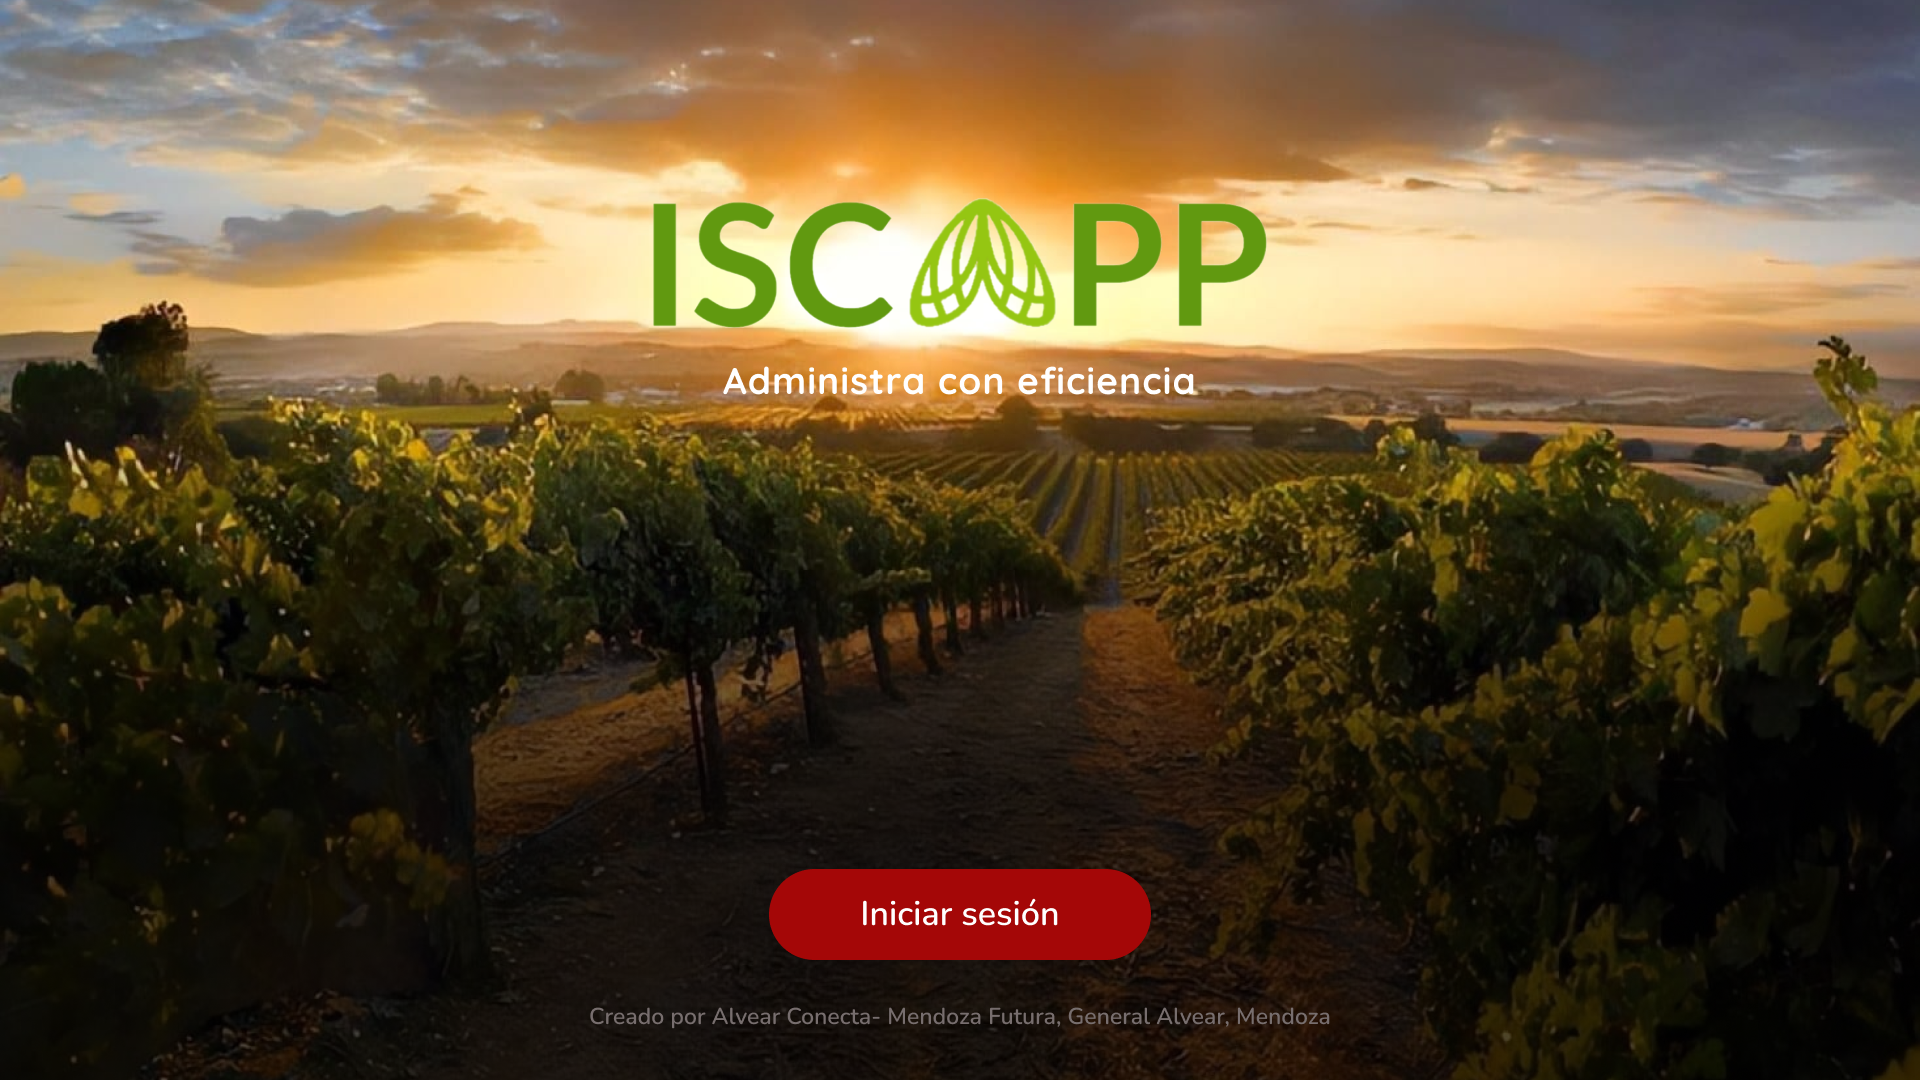
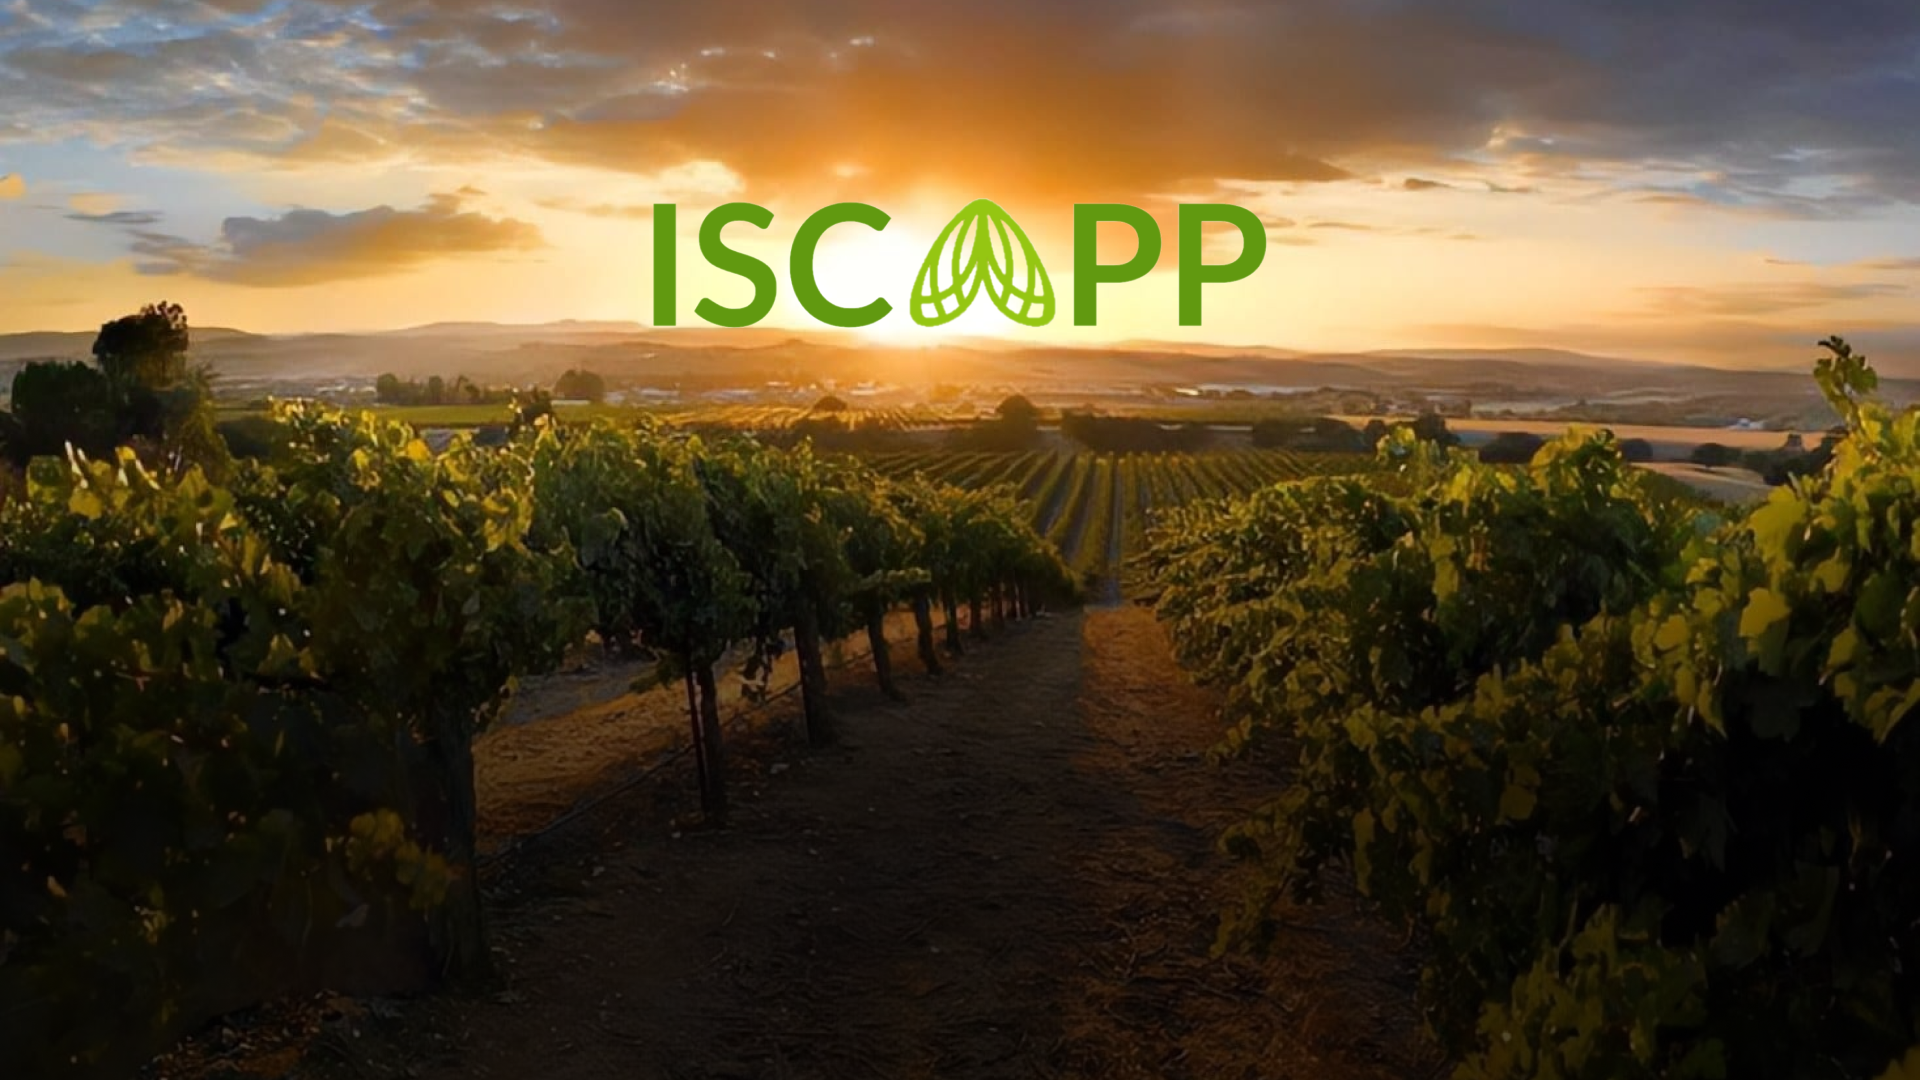
login completo

Changed region(s): [[0.375, 0.7944, 0.625, 0.8861], [0.3125, 0.9167, 0.6875, 0.9472], [0.375, 0.3361, 0.625, 0.3667]]

diff --git a/AppIscamen/App/static/main.css b/AppIscamen/App/static/main.css
@@ -2,6 +2,8 @@
     display: flex;
     justify-content: center;
     align-items: center;
+    
+
 }
 
 #fondo{
@@ -12,16 +14,122 @@
     background-size: cover;
     background-position: center;
 }
+#titulo{
+    color: rgba(255, 255, 255, 1);
+	width:473px;
+	height:0px;
+	position:absolute;
+	left: 430px;
+	top:380px;
+	font-family:Quicksand;
+	text-align:left;
+	font-size:20px;
+	letter-spacing:3;
+	line-height:px;
+}
+#titulologin{
+    color: rgb(29, 12, 12);
+	width:473px;
+	height:0px;
+	position:absolute;
+	left: 440px;
+	top:380px;
+	font-family:Nunito;
+	text-align:center;
+	font-size:20px;
+	letter-spacing:3;
+	line-height:px;
+    z-index: 1;
+}
+
+#socalo{
+    color: rgba(255, 255, 255, 1);
+	width:742px;
+	height:31px;
+	position:absolute;
+	left:460px;
+	top:900px;
+	font-family:Nunito;
+	text-align:left;
+	font: size 37px;
+	letter-spacing:0;
+
+}
+#socalologin a {
+    color: rgba(255, 255, 255, 1);
+    text-decoration: none;
+    /* Otros estilos para el enlace específico */
+}
+#socalologin{
+    color: rgba(255, 255, 255, 1);
+	width:742px;
+	height:31px;
+	position:absolute;
+	left:300px;
+	top:850px;
+	font-family:Nunito;
+	text-align:center;
+	font: size 37px;
+	letter-spacing:0;
+    text-decoration: none;
+
+}
+
+.form {
+    max-width: 1000px;
+    margin-top: -60px;
+    padding: 20px;
+    background-color: white;  /* Fondo blanco del contenedor */
+    border: 1px solid #ddd;
+    border-radius: 37px;  /* Esquinas redondeadas */
+    box-shadow: 0 0 10px rgba(0, 0, 0, 0.1);
+    height: 400px;
+    display: flex;
+    flex-direction: column;
+    justify-content: center;
+    align-items: center;
+    position: absolute;
+    top: 100%;
+    left: 50%;
+    transform: translate(-50%, -50%);
+}
+
+input[type="text"],
+input[type="password"] {
+    width: 93%;
+    padding: 10px;
+    margin-bottom: 10px;
+    font-family:Nunito;
+    font-size: 16px;
+    border: 1px solid #ddd;
+    border-radius: 5px;  /* Esquinas redondeadas en los campos de entrada */
+}
 
 .button {
     color: rgba(255, 255, 255, 1);
     background-color: red;
-    font-family: 'Segoe UI';
+    font-family: Nunito;
     font-weight: SemiBold;
     font-size: 1.5vw;
     padding: 12px 30px;
     border: none;
-    border-radius: 30px;
+    border-radius: 40px;
     cursor: pointer;
-    position: absolute;top: 100%;
+    position: absolute;top: 120%;
+    text-decoration: none;
 }
+.buttonform {
+    color: rgba(255, 255, 255, 1);
+    background-color: red;
+    font-family: Nunito;
+    font-weight: SemiBold;
+    font-size: 1.5vw;
+    padding: 12px 30px;
+    border: none;
+    border-radius: 40px;
+    cursor: pointer;
+    position: absolute;top: 80%;
+    left:95px;
+
+}
+

diff --git a/AppIscamen/App/plantillas/login.html b/AppIscamen/App/plantillas/login.html
@@ -5,7 +5,7 @@
     <meta charset="UTF-8">
     <meta http-equiv="X-UA-Compatible" content="IE=edge">
     <meta name="viewport" content="width=device-width, initial-scale=1.0">
-    <title>Inicio</title>
+    <title>Inicio de sesión</title>
     <link rel="stylesheet" href="{% static 'main.css' %}">
     <link href="https://fonts.googleapis.com/css?family=Nunito&display=swap" rel="stylesheet">
     <link href="https://fonts.googleapis.com/css?family=Quicksand&display=swap" rel="stylesheet">
@@ -13,19 +13,21 @@
 <body>
     <div class="flex-center">
         <div id="fondo">
-            <div id="titulo" >
-                <h1>Administra con eficiencia</h1> 
-            </div>
 
-            <div id="button" class="flex-center">
-                <a href="{% url 'login' %}" class="button">Iniciar sesión</a>
-            </div>
+        <h1 id="titulologin">¡Bienvenido a ISCAPP!</h1>
+        
+        <div class="form" >
+            <form method="post" action="{% url 'login' %}">
+            {% csrf_token %}
+            {{ form.as_p }}
+            <button class="buttonform" type="submit">Iniciar sesión</button>
+            </form>
 
-            <div id="socalo" >
-                <h5>Creado por Alvear Conecta- Mendoza Futura, General Alvear, Mendoza</h5>
-            </div>
+        </div>
+        <div>
+            <h5 id="socalologin"><a href="URL_DE_RECUPERACION">¿Olvidaste tu contraseña?</a></h5>
+        </div>
         </div>
         
     </div>
 </body>
-</html>

diff --git a/AppIscamen/AppIscamen/settings.py b/AppIscamen/AppIscamen/settings.py
@@ -56,7 +56,7 @@ ROOT_URLCONF = 'AppIscamen.urls'
 TEMPLATES = [
     {
         'BACKEND': 'django.template.backends.django.DjangoTemplates',
-        'DIRS': ['C:/Users/User/Documents/Gustavo/Programacion/appIscamen/appIscamen/AppIscamen/App/plantillas'],
+        'DIRS': ['C:/appIscamen/appIscamen/AppIscamen/App/plantillas'],
         'APP_DIRS': True,
         'OPTIONS': {
             'context_processors': [
@@ -124,3 +124,5 @@ STATICFILES_DIRS = [os.path.join(BASE_DIR, 'app', 'static')]
 # https://docs.djangoproject.com/en/dev/ref/settings/#default-auto-field
 
 DEFAULT_AUTO_FIELD = 'django.db.models.BigAutoField'
+LOGIN_URL = 'login'
+LOGIN_REDIRECT_URL = 'home'

diff --git a/AppIscamen/App/views.py b/AppIscamen/App/views.py
@@ -1,6 +1,19 @@
 from django.shortcuts import render
+from django.contrib.auth.forms import AuthenticationForm
+from django.contrib.auth import login
 
-# Create your views here.
+
+
 
 def index(request):
     return render(request, "index.html")
+
+def login_view(request):
+    if request.method == 'POST':
+        form = AuthenticationForm(request, request.POST)
+        if form.is_valid():
+            login(request, form.get_user())
+            # Puedes redirigir a otra página después del inicio de sesión exitoso
+    else:
+        form = AuthenticationForm()
+    return render(request, 'login.html', {'form': form})

diff --git a/AppIscamen/App/urls.py b/AppIscamen/App/urls.py
@@ -2,9 +2,11 @@ from django.urls import path
 from . import views
 from django.conf import settings
 from django.conf.urls.static import static 
+from .views import login_view
 
 urlpatterns = [
-    path('', views.index, name='index')
+    path('', views.index, name='index'),
+    path('login/', login_view, name='login'),
 ]
 if settings.DEBUG:
     urlpatterns += static(settings.STATIC_URL, document_root=settings.STATIC_ROOT)

diff --git a/AppIscamen/AppIscamen/urls.py b/AppIscamen/AppIscamen/urls.py
@@ -15,10 +15,11 @@ Including another URLconf
     2. Add a URL to urlpatterns:  path('blog/', include('blog.urls'))
 """
 from django.contrib import admin
-from django.urls import path
+from django.urls import include, path
 from App.views import index
 
 urlpatterns = [
     path('admin/', admin.site.urls),
-    path('index/', index)
+    path('index/', index),
+    path('', include('App.urls')),
 ]
